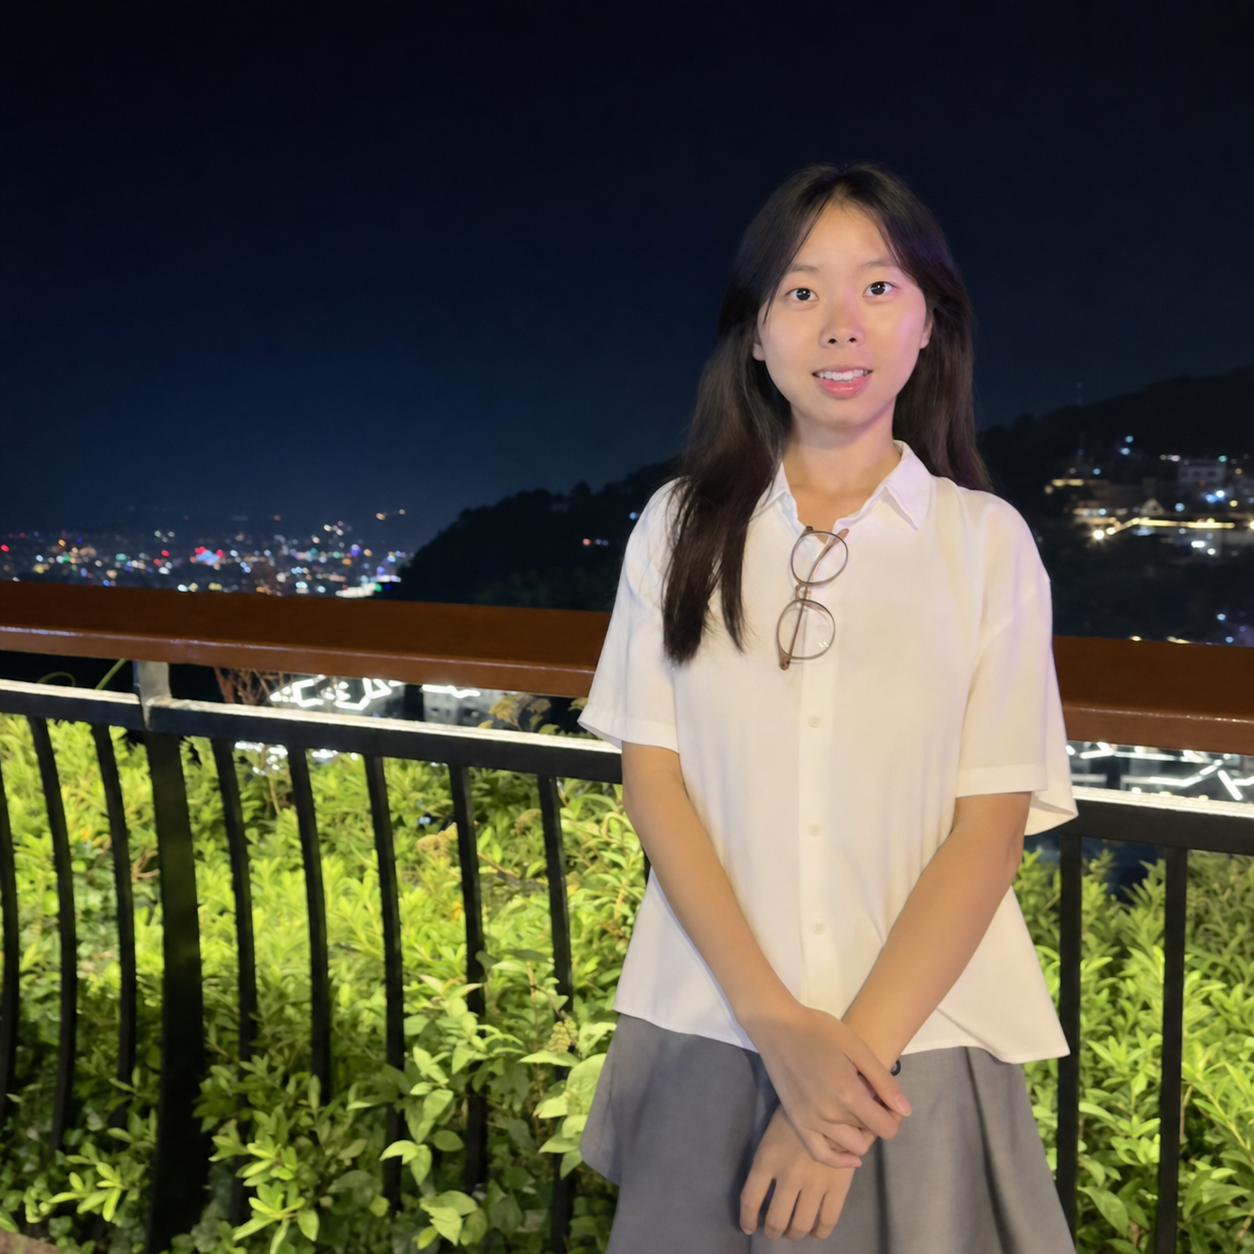
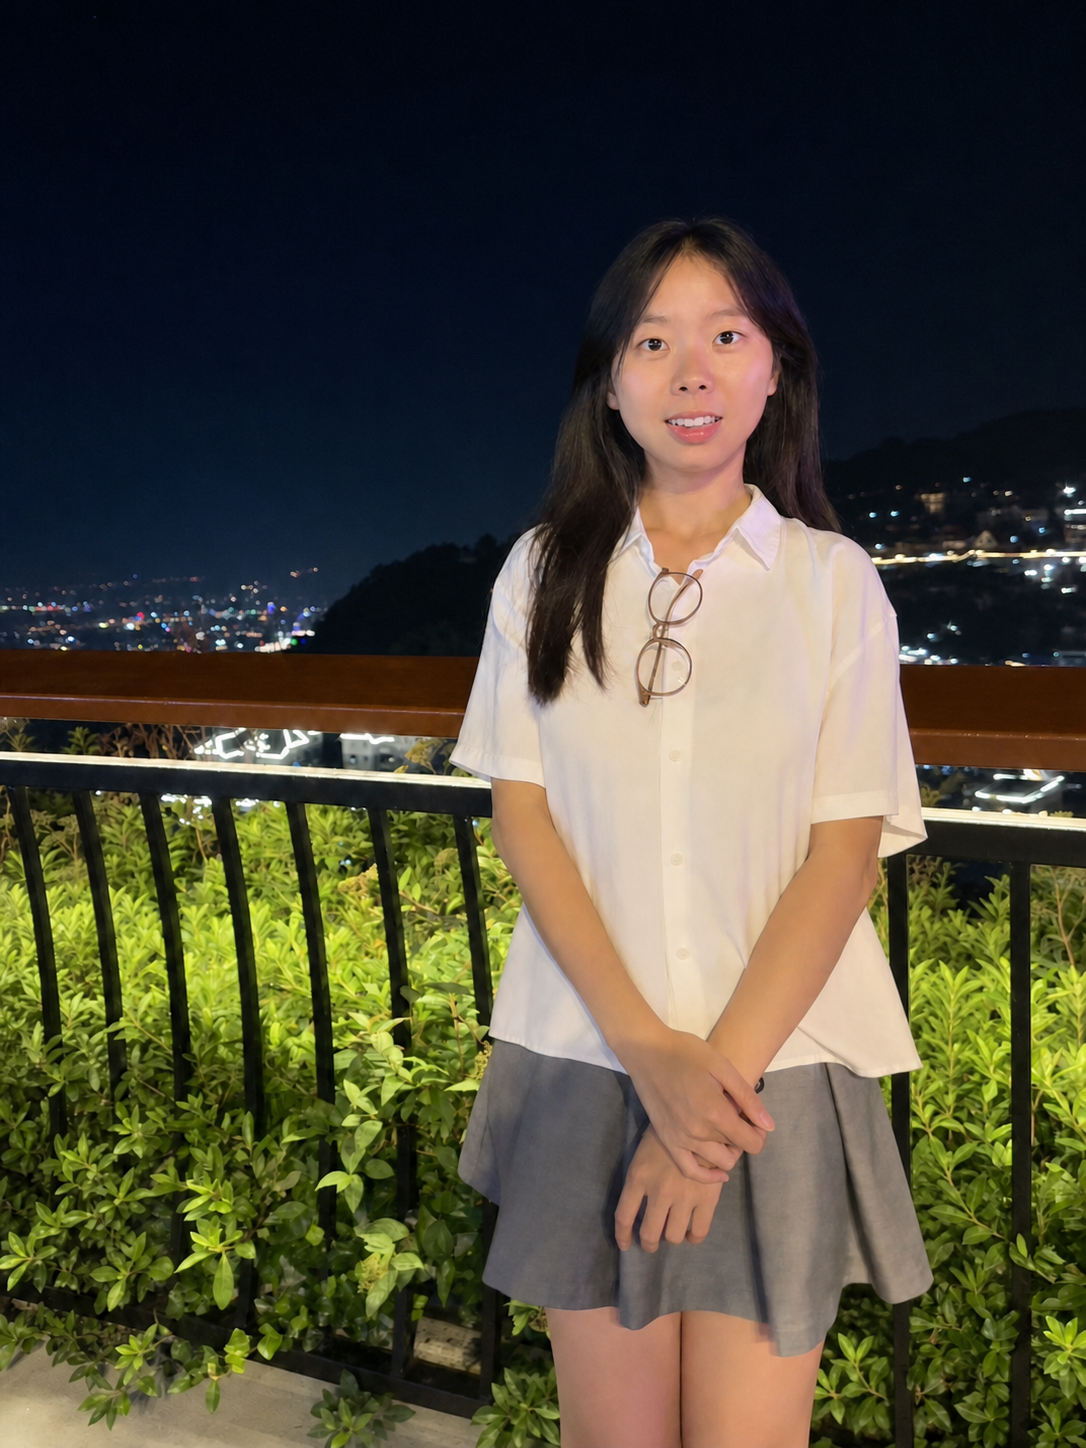
Replace profile portrait with vertical photo

diff --git a/_sass/layout/_custom.scss b/_sass/layout/_custom.scss
@@ -314,7 +314,7 @@ a {
 .profile-portrait {
   display: block;
   width: 100%;
-  aspect-ratio: 1;
+  aspect-ratio: 3 / 4;
   border: 1px solid var(--global-border-color);
   border-radius: 14px;
   object-fit: cover;
